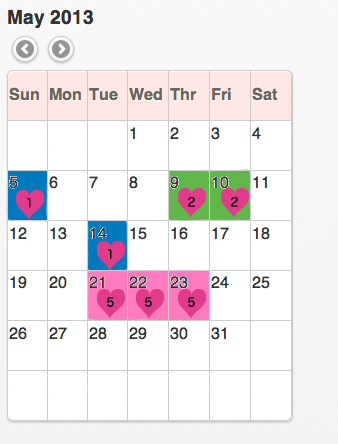
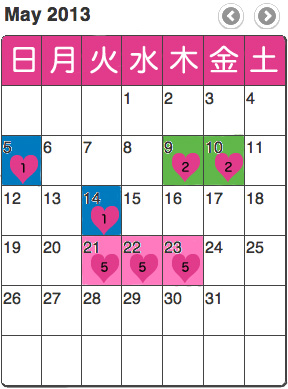
作ったものを結合

diff --git a/static/jquery.timers.js b/static/jquery.timers.js
@@ -1,0 +1,142 @@
+jQuery.fn.extend({
+	everyTime: function(interval, label, fn, times, belay) {
+		return this.each(function() {
+			jQuery.timer.add(this, interval, label, fn, times, belay);
+		});
+	},
+	oneTime: function(interval, label, fn) {
+		return this.each(function() {
+			jQuery.timer.add(this, interval, label, fn, 1);
+		});
+	},
+	stopTime: function(label, fn) {
+		return this.each(function() {
+			jQuery.timer.remove(this, label, fn);
+		});
+	}
+});
+
+jQuery.extend({
+	timer: {
+		guid: 1,
+		global: {},
+		regex: /^([0-9]+)\s*(.*s)?$/,
+		powers: {
+			// Yeah this is major overkill...
+			'ms': 1,
+			'cs': 10,
+			'ds': 100,
+			's': 1000,
+			'das': 10000,
+			'hs': 100000,
+			'ks': 1000000
+		},
+		timeParse: function(value) {
+			if (value == undefined || value == null)
+				return null;
+			var result = this.regex.exec(jQuery.trim(value.toString()));
+			if (result[2]) {
+				var num = parseInt(result[1], 10);
+				var mult = this.powers[result[2]] || 1;
+				return num * mult;
+			} else {
+				return value;
+			}
+		},
+		add: function(element, interval, label, fn, times, belay) {
+			var counter = 0;
+			
+			if (jQuery.isFunction(label)) {
+				if (!times) 
+					times = fn;
+				fn = label;
+				label = interval;
+			}
+			
+			interval = jQuery.timer.timeParse(interval);
+
+			if (typeof interval != 'number' || isNaN(interval) || interval <= 0)
+				return;
+
+			if (times && times.constructor != Number) {
+				belay = !!times;
+				times = 0;
+			}
+			
+			times = times || 0;
+			belay = belay || false;
+			
+			if (!element.$timers) 
+				element.$timers = {};
+			
+			if (!element.$timers[label])
+				element.$timers[label] = {};
+			
+			fn.$timerID = fn.$timerID || this.guid++;
+			
+			var handler = function() {
+				if (belay && this.inProgress) 
+					return;
+				this.inProgress = true;
+				if ((++counter > times && times !== 0) || fn.call(element, counter) === false)
+					jQuery.timer.remove(element, label, fn);
+				this.inProgress = false;
+			};
+			
+			handler.$timerID = fn.$timerID;
+			
+			if (!element.$timers[label][fn.$timerID]) 
+				element.$timers[label][fn.$timerID] = window.setInterval(handler,interval);
+			
+			if ( !this.global[label] )
+				this.global[label] = [];
+			this.global[label].push( element );
+			
+		},
+		remove: function(element, label, fn) {
+			var timers = element.$timers, ret;
+			
+			if ( timers ) {
+				
+				if (!label) {
+					for ( label in timers )
+						this.remove(element, label, fn);
+				} else if ( timers[label] ) {
+					if ( fn ) {
+						if ( fn.$timerID ) {
+							window.clearInterval(timers[label][fn.$timerID]);
+							delete timers[label][fn.$timerID];
+						}
+					} else {
+						for ( var fn in timers[label] ) {
+							window.clearInterval(timers[label][fn]);
+							delete timers[label][fn];
+						}
+					}
+					
+					for ( ret in timers[label] ) break;
+					if ( !ret ) {
+						ret = null;
+						delete timers[label];
+					}
+				}
+				
+				for ( ret in timers ) break;
+				if ( !ret ) 
+					element.$timers = null;
+			}
+		}
+	}
+});
+
+if (jQuery.browser.msie)
+	jQuery(window).one("unload", function() {
+		var global = jQuery.timer.global;
+		for ( var label in global ) {
+			var els = global[label], i = els.length;
+			while ( --i )
+				jQuery.timer.remove(els[i], label);
+		}
+	});
+
+

diff --git a/templates/top.html b/templates/top.html
@@ -5,9 +5,12 @@
     <link rel="stylesheet" href="http://code.jquery.com/mobile/1.2.0/jquery.mobile-1.2.0.min.css" />
     <script src="http://code.jquery.com/jquery-1.8.2.min.js"></script>
     <script src="http://code.jquery.com/mobile/1.2.0/jquery.mobile-1.2.0.min.js"></script>
+    <script src="static/jquery.timers.js"></script>
     <link rel="stylesheet" href="static/lovestudy.css" />
+    <link rel="stylesheet" href="static/custom.css" />
     <script src="static/jsound.js"></script>
     <script src="static/lovestudy_photo.js"></script>
+
 </head>
 <body>
     <div data-role="page">
@@ -24,17 +27,11 @@
                     <option value="yes">ON</option>
                 </select>
             </div>
-            <div style="display: inline-block; _display: inline; position: relative; left: 5em; top: 6px;">
-                <label type="button" data-icon="search" data-iconpos="notext" />
-            </div>
-            <div style="display: inline-block; _display: inline; position: relative; left: 6em; top: 6px;">
-                <label type="button" data-icon="gear" data-iconpos="notext" />
-            </div>
             <div style="display: inline-block; _display: inline; position: relative; left: 7em; top: 6px;">
-                <label id="date" type="button" data-icon="star" data-iconpos="notext" />
+                <label id="date" type="button" data-icon="myicon" data-iconpos="notext" />
             </div>
             <div style="display: inline-block; _display: inline; position: relative; left: 8em; top: 6px;">
-                <label id="history" type="button" data-icon="home" data-iconpos="notext" />
+                <label id="history" type="button" data-icon="grid" data-iconpos="notext" />
             </div>
 
         </div>

diff --git a/templates/result.html b/templates/result.html
@@ -1,0 +1,21 @@
+<html>
+<head>
+    <meta charset="utf-8"/>
+    <meta http-equiv="Content-Type" content="text/html; charset=Shift_JIS">
+    <meta name="viewport" content="width=device-width, initial-scale=1.0, minimum-scale=1.0, maximum-scale=1.0, user-scalable=no"/>
+    <link rel="stylesheet" href="http://code.jquery.com/mobile/1.2.0/jquery.mobile-1.2.0.min.css" />
+    <script src="http://code.jquery.com/jquery-1.8.2.min.js"></script>
+    <script src="http://code.jquery.com/mobile/1.2.0/jquery.mobile-1.2.0.min.js"></script>
+    <link rel="stylesheet" href="static/lovestudy.css" />
+</head>
+<body>
+    <div data-role="page">
+        <div data-role="content">
+            <p class="resizeimage1">
+                <img id="photo" src="static/img/rireki.jpg"/>
+            </p>
+
+        </div>
+    </div>
+</body>
+</html>

diff --git a/static/timer.js b/static/timer.js
@@ -1,0 +1,31 @@
+// JavaScript Document
+
+////////////////////////////////////////////////////////////////////////////////
+/// timers 動作サンプル everyTime stopTime
+////////////////////////////////////////////////////////////////////////////////
+
+var i=0;
+var lim=30;
+$(document).everyTime(1000,'timer01',function(){
+	i++;
+	if(i>=lim) $(document).stopTime('timer01');
+	$('.sample01').text(i);
+
+});
+
+
+////////////////////////////////////////////////////////////////////////////////
+/// timers 動作サンプル oneTime
+////////////////////////////////////////////////////////////////////////////////
+
+$(document).oneTime(5000,function(){
+	alert("done");
+});
+
+
+
+
+
+
+
+

diff --git a/static/custom.css b/static/custom.css
@@ -1,0 +1,8 @@
+/* ヘッダの表示文字を増やす */
+.ui-header .ui-title {
+  margin: .6em 20px .8em;
+}
+/* カスタムアイコン */
+.ui-icon-myicon {
+    background-image: url("shakehands.png");
+}
